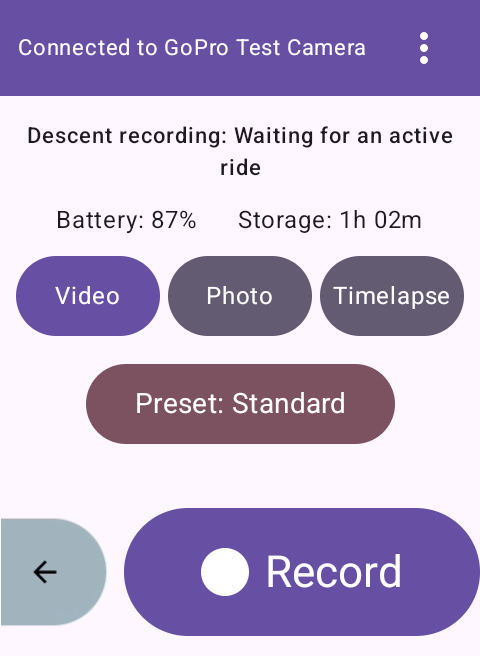
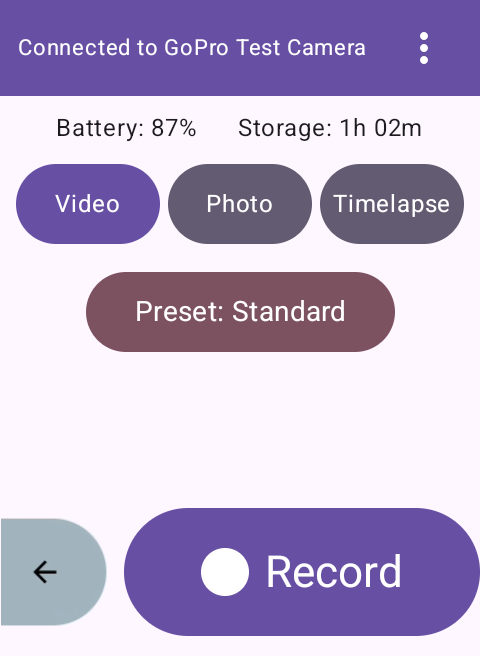
fix: move descent status out of camera controls

Changed region(s): [[0.0312, 0.1829, 0.9688, 0.7012]]

diff --git a/app/src/androidTest/kotlin/com/karoocameracontrol/DescentUiInstrumentation.kt b/app/src/androidTest/kotlin/com/karoocameracontrol/DescentUiInstrumentation.kt
@@ -23,7 +23,6 @@ import com.karoocameracontrol.components.CompactTopAppBar
 import com.karoocameracontrol.integrations.gopro.Preset
 import com.karoocameracontrol.integrations.gopro.PresetGroup
 import com.karoocameracontrol.recording.CameraCommandController
-import com.karoocameracontrol.recording.DescentStatus
 import com.karoocameracontrol.screens.ConnectedScreen
 import com.karoocameracontrol.theme.AppTheme
 import kotlinx.coroutines.CompletableDeferred
@@ -98,8 +97,6 @@ class DescentUiInstrumentation : Instrumentation() {
                                     availablePresets = listOf(PresetGroup(id = 1000, presets = listOf(Preset(id = 1)))),
                                     activePresetName = "Standard",
                                     activePresetIcon = null,
-                                    descentRecordingEnabled = true,
-                                    descentStatus = if (isRecording || command.recordingInFlight) DescentStatus.CONSUMED else DescentStatus.WAITING_FOR_RIDE,
                                     onToggleRecording = { controller.toggleManually() },
                                     onSetMode = {},
                                     onOpenPresetSelection = {},
@@ -141,6 +138,13 @@ class DescentUiInstrumentation : Instrumentation() {
             val bounds = android.graphics.Rect()
             recordingStop.getBoundsInScreen(bounds)
             check(bounds.bottom <= 704 && bounds.top >= 48) { "Stop clipped by system UI: $bounds" }
+            val activePresetBounds = android.graphics.Rect()
+            clickableParent(waitForText("Preset: Standard")).getBoundsInScreen(activePresetBounds)
+            val timerBounds = android.graphics.Rect()
+            waitForText("00:12").getBoundsInScreen(timerBounds)
+            check(activePresetBounds.height() >= 96 && activePresetBounds.bottom <= timerBounds.top - 16) {
+                "Preset clipped by fixed recording controls: $activePresetBounds / $timerBounds"
+            }
             capture("descent-recording-active")
             // Details can scroll, while the recording timer and Stop remain fixed.
             findScrollable(uiAutomation.rootInActiveWindow)?.performAction(AccessibilityNodeInfo.ACTION_SCROLL_FORWARD)

diff --git a/app/src/main/kotlin/com/karoocameracontrol/screens/ConnectedScreen.kt b/app/src/main/kotlin/com/karoocameracontrol/screens/ConnectedScreen.kt
@@ -39,7 +39,6 @@ import com.karoocameracontrol.R
 import com.karoocameracontrol.components.SimpleAlertDialog
 import com.karoocameracontrol.integrations.gopro.PresetGroup
 import com.karoocameracontrol.integrations.gopro.PresetIcon
-import com.karoocameracontrol.recording.DescentStatus
 import kotlin.time.Duration.Companion.seconds
 
 @Composable
@@ -56,8 +55,6 @@ fun ConnectedScreen(
     activePresetName: String?,
     // Added Icon ID
     activePresetIcon: Int?,
-    descentRecordingEnabled: Boolean = false,
-    descentStatus: DescentStatus = DescentStatus.OFF,
     onToggleRecording: () -> Unit,
     onSetMode: (Int) -> Unit,
     onOpenPresetSelection: () -> Unit,
@@ -84,14 +81,6 @@ fun ConnectedScreen(
                 verticalArrangement = Arrangement.spacedBy(6.dp),
                 horizontalAlignment = Alignment.CenterHorizontally,
             ) {
-                if (descentRecordingEnabled) {
-                    Text(
-                        text = "Descent recording: ${descentStatus.message}",
-                        style = MaterialTheme.typography.labelSmall,
-                        modifier = Modifier.padding(horizontal = 12.dp, vertical = 4.dp),
-                        textAlign = TextAlign.Center,
-                    )
-                }
                 // Compact camera status leaves room for the controls on Karoo.
                 Row(
                     horizontalArrangement = Arrangement.SpaceEvenly,

diff --git a/app/src/main/kotlin/com/karoocameracontrol/screens/MainScreen.kt b/app/src/main/kotlin/com/karoocameracontrol/screens/MainScreen.kt
@@ -222,8 +222,6 @@ fun MainScreen(
                     availablePresets = uiState.availablePresets,
                     activePresetName = uiState.activePresetName,
                     activePresetIcon = uiState.activePresetIcon,
-                    descentRecordingEnabled = descentSettings.enabled,
-                    descentStatus = descentStatus,
                     onToggleRecording = { viewModel.toggleRecording() },
                     onSetMode = { mode -> viewModel.setMode(mode) },
                     onOpenPresetSelection = { viewModel.setShowPresetScreen(true) },

diff --git a/docs/recording-controls.md b/docs/recording-controls.md
@@ -16,7 +16,8 @@ same application-scoped controller. Command progress remains visible when
 the screen is reopened, and failures appear in a snackbar. Record/Stop and Back
 share a fixed bottom row on the Karoo screen, with the recording timer above.
 Other camera details scroll when needed, with a gap above the fixed controls.
-Battery and storage share a compact row so the mode and preset controls fit
+Descent status appears in **More options → Descent recording**, keeping the
+camera controls clear. Battery and storage share a compact row so the mode and preset controls fit
 more comfortably. Tap the preset button, labelled with the current preset, to
 choose another preset. The 48 dp app header keeps its title on one line. It measures the available
 width and selects a text size from 12 down to 10 sp. Names that still do not
@@ -45,8 +46,9 @@ requires an explicit action in the Leave Feedback screen.
 ## Layout verification
 
 The connected screen was checked on the isolated 480×800 Karoo emulator with
-a sample camera, populated presets, and descent status enabled. The UI runner
-checks that the preset button is fully visible with a gap above Record, and
+a sample camera and populated presets. The UI runner checks that the preset
+button is fully visible both at rest and while recording, with a gap above
+the fixed recording controls, and
 that Stop stays available during pending commands and active recording. It
 uses the production header and checks a single-line normal title and a long
 title that ellipsizes at the 10 sp minimum.

diff --git a/docs/descent-recording.md b/docs/descent-recording.md
@@ -25,6 +25,9 @@ The feature starts video recording only during an actively recording Karoo
 ride, with a connected GoPro in Video mode. It does not change the selected
 mode or preset or wake a disconnected camera.
 The normal Stop control remains available during an automatic start.
+The descent status message is shown in **More options → Descent recording**.
+It is omitted from the connected-camera controls to leave space for the preset
+selector and recording controls on Karoo.
 
 **Stop at descent end** is a separate option, off by default. When selected,
 recordings started by this automation stop after a gradient of **−0.5% or
